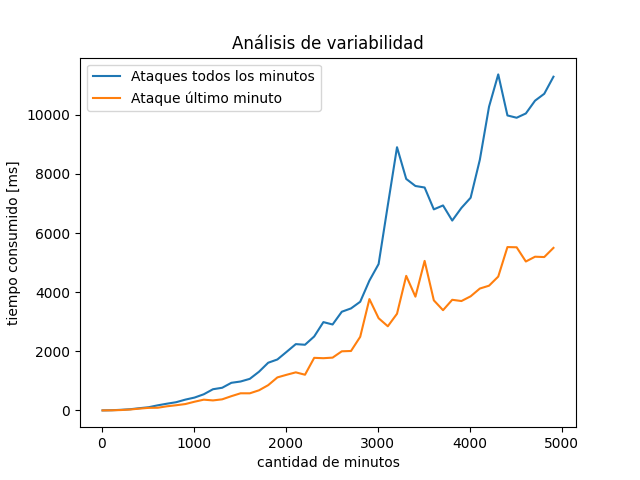
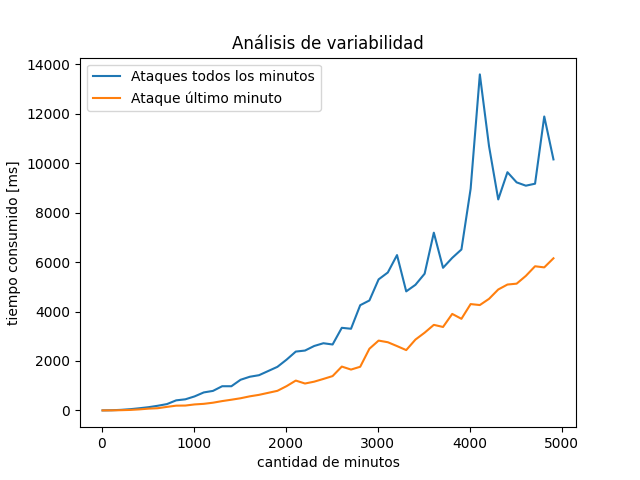
actualizo grafico variabilidad

diff --git a/plot.py b/plot.py
@@ -1,13 +1,10 @@
 from time import perf_counter
-from utils import obtener_funcion_potencias_random
+from utils import MAX_ENEMIGOS, TAM_MUESTRA, obtener_funcion_potencias_random
 from random import randrange
 from scipy.optimize import curve_fit
 from main import obtener_optimos, construir_estrategia
 import matplotlib.pyplot as plt
 import numpy as np
-
-TAM_MUESTRA = 1 # Numeros mas grandes tardaban demasiado
-MAX_ENEMIGOS = 1000000 # Numero muy grande, para que funcione randrange
 
 def ajuste(x, a, b, c):
     return a*x**2 + b*x + c

diff --git a/plot_variabilidad.py b/plot_variabilidad.py
@@ -2,8 +2,7 @@ import matplotlib.pyplot as plt
 from time import perf_counter
 from random import uniform
 from main import obtener_optimos, construir_estrategia
-from plot import MAX_ENEMIGOS, TAM_MUESTRA
-from utils import MAXIMO_PODER
+from utils import MAX_ENEMIGOS, MAXIMO_PODER, TAM_MUESTRA
 
 plt.clf()
 tamanios_datos = [x for x in range(10, 5000, 100)]

diff --git a/utils.py b/utils.py
@@ -1,5 +1,7 @@
 from random import randrange
 
+TAM_MUESTRA = 5 # Numeros mas grandes tardaban demasiado
+MAX_ENEMIGOS = 1000000 # Numero muy grande, para que funcione randrange
 MAXIMO_PODER = 1000000 # Para que funcione randrange
 
 def calcular_tropas_eliminadas(enemigos, potencias, estrategia):

diff --git a/informe.md b/informe.md
@@ -160,9 +160,15 @@ El algoritmo respondió satisfactoriamente a todos estos casos, demostrando su e
 Se realizaron una serie de mediciones para comprobar la complejidad del algoritmo.
 Para ello se generaron muestras aleatorias de $x_i$ y $f(\cdot)$ de tamaño $n$, yendo de 10 a 5000 elementos de a pasos de 100 y se fue midiendo el tiempo consumido. Para reducir el ruido de las mediciones, por cada tamaño se realizaron 5 mediciones y se calculó su promedio. Para graficar la complejidad teórica esperada, que en este caso era cuadrática, se ajustaron las mediciones a una parábola mediante el método de cuadrados mínimos.
 
-![grafico complejidad](img/grafico_complejidad.png "Grafico complejidad")
+![grafico complejidad](img/grafico_complejidad.png "Gráfico complejidad")
 
 Podemos observar que hay una similitud notable entre los gráficos, confirmando experimentalmente que la complejidad del algoritmo es cuadrática.
+
+Para el siguiente gráfico se repitió la experiencia anterior para los casos mencionados
+en el [análisis de variabilidad de $x_i$ y $f(\cdot)$](#análisis-de-variabilidad-de--y).
+
+![grafico variabilidad](img/grafico_variabilidad.png "Gráfico variabilidad")
+<!-- TO DO -->
 
 # Conclusiones
 Tras haber realizado todos los análisis, ejemplos y mediciones correspondientes, se puede concluir que:
